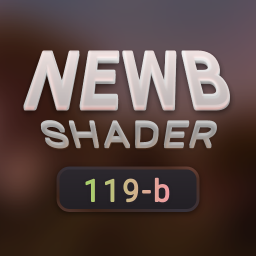
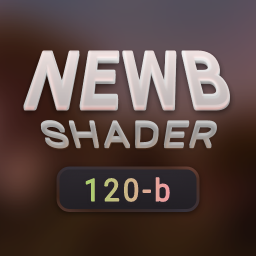
Updated docs

Changed region(s): [[0.4062, 0.6875, 0.6875, 0.8125], [0.3438, 0.6875, 0.375, 0.7188]]

diff --git a/README.md b/README.md
@@ -1,8 +1,8 @@
 # Newb Shader MCPE
 An aesthetic lightweight shader for Minecraft BE/PE (GLSL)
 
-#### [Download beta (119b)](https://github.com/devendrn/newb-shader-mcbe/archive/main.zip)  
+#### [Download beta (120b)](https://github.com/devendrn/newb-shader-mcbe/archive/main.zip)  
 #### [Customisation](https://devendrn.github.io/newb-shader/customization.html)  
-#### [Contribution](/.docs/contribution.md)  
+#### [Contributing](/.docs/contributing.md)  
 #### [MCPEDL Post](https://mcpedl.com/newb-shader/)  
 #### [Discord Server](https://discord.gg/Cc4qsgHcYm)  

diff --git a/.docs/how_to_config.md b/.docs/how_to_config.md
@@ -1,1 +1,1 @@
-See [Customisation](https://devendrn.github.io/newb-shader/customization.html)
+###See [Customisation](https://devendrn.github.io/newb-shader/customization.html)

diff --git a/.docs/contributing.md b/.docs/contributing.md
@@ -1,4 +1,4 @@
-# How to contribute
+# How to contribute (in code)
 
 ### Prerequisite
 - Basic understanding of GLSL
